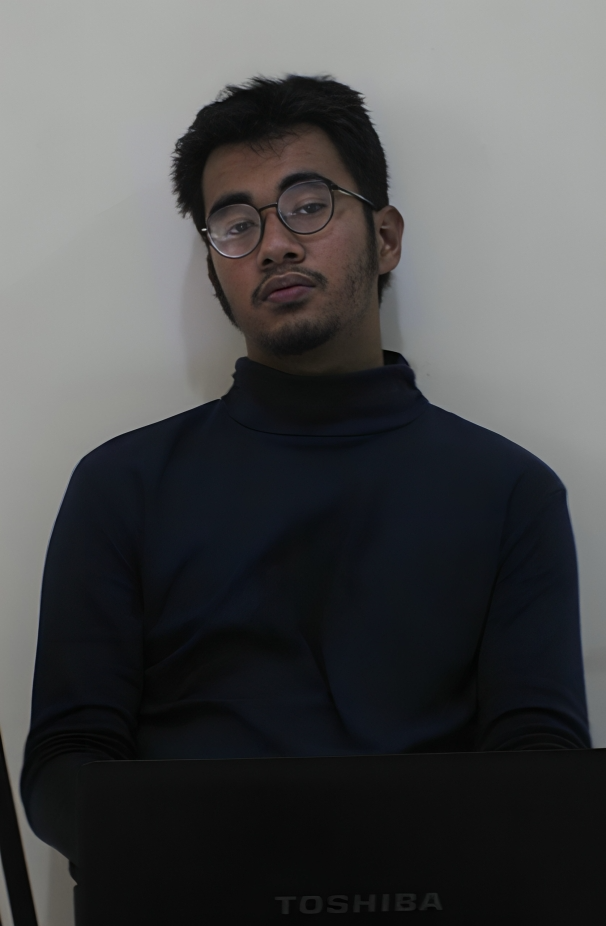
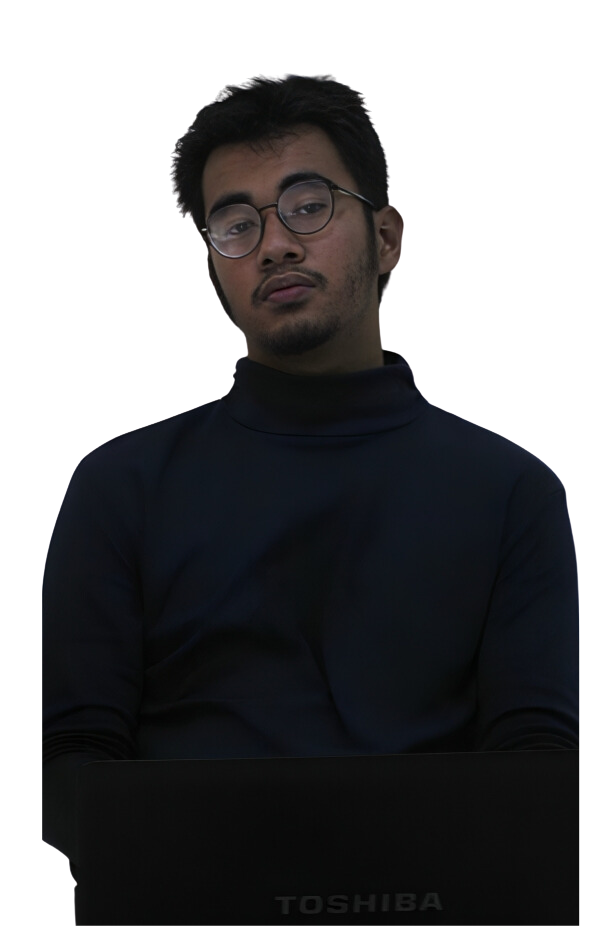
last commit

diff --git a/src/components/Skills.tsx b/src/components/Skills.tsx
@@ -1,11 +1,12 @@
 import React from "react";
 import Image from "next/image";
-import Csslogo from "../../public/logos/csslogo.png";
-import Htmllogo from "../../public/logos/htmllogo.png";
-import Jslogo from "../../public/logos/jslogo.png";
-import Reactlogo from "../../public/logos/reactlogo.png";
-import Nextlogo from "../../public/logos/nextjslogo.png";
-import Mysql from "../../public/logos/sqllogo.png";
+import Csslogo from "../../public/logos/css.png";
+import Htmllogo from "../../public/logos/html.png";
+import Jslogo from "../../public/logos/javascript.png";
+import Reactlogo from "../../public/logos/react.png";
+import Nextlogo from "../../public/logos/nextjs.png";
+import Mysql from "../../public/logos/sql.png";
+import profile2 from "../../public/profile2.png";
 import { Card, CardContent } from "./ui/Card";
 import {
   Carousel,
@@ -24,11 +25,11 @@ const Skills = () => {
 
       <div className="flex grid-cols-2 gap-20 p-20 justify-center">
         <div>
-          <Image src={Csslogo} alt="CSS" height={500} width={500} />
+          <Image src={profile2} alt="profile2" className="rounded-full" height={500} width={500} />
         </div>
 
         <div>
-          <div className="pl-32 pt-28">
+          <div className="pl-32 pt-40">
             <Carousel
               opts={{
                 align: "start",
